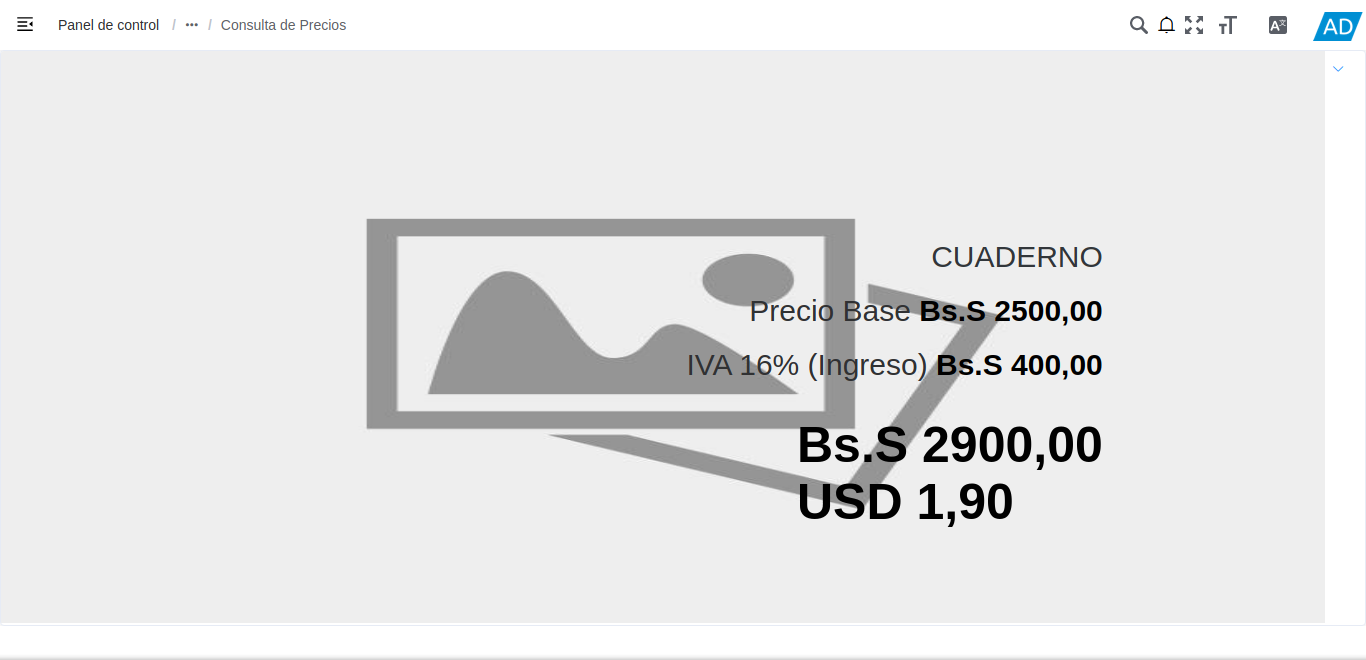
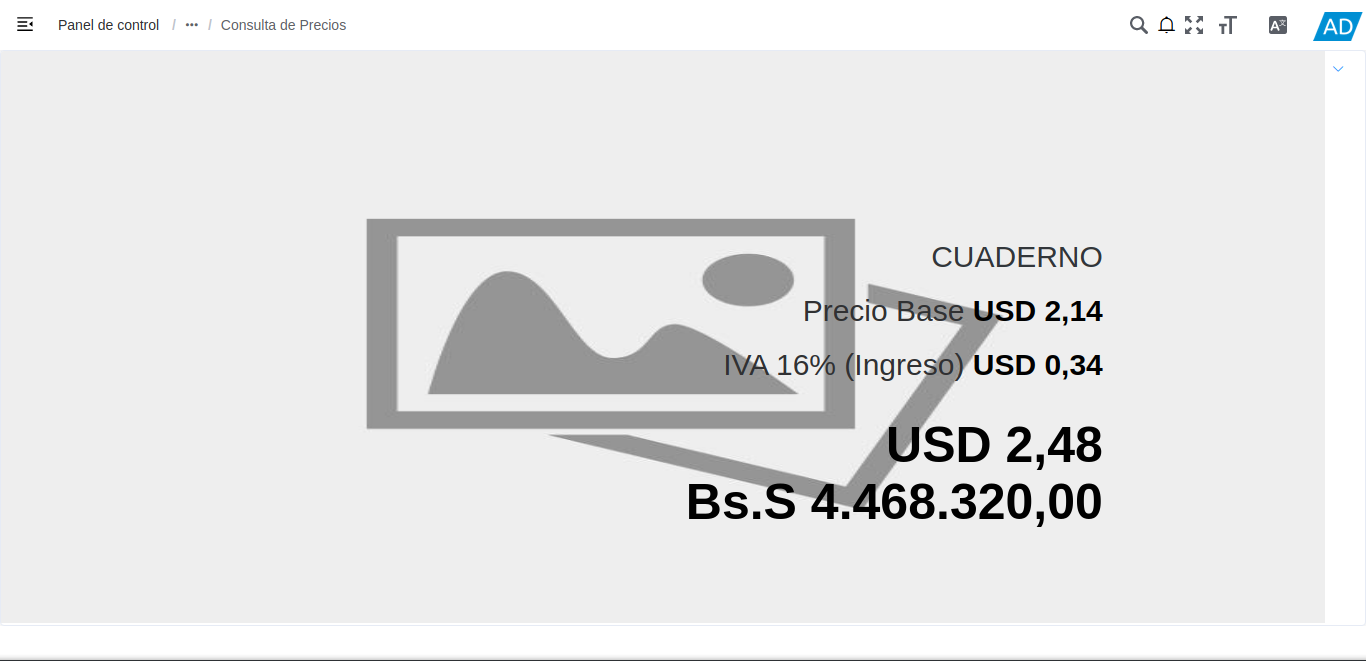
modificaciones del visor y consulta de productos

diff --git a/src/adempiere/material-management/consultation-of-product-prices.rst b/src/adempiere/material-management/consultation-of-product-prices.rst
@@ -8,11 +8,11 @@
 **Consulta de Precios de Productos**
 ====================================
 
+ADempiere permite que sea realizada una búsqueda de precios de productos a través del código de barra del mismo, en la ventana "**Consulta de Precios**". Para ello, fue realizada la creación y configuración del usuario "**visor**", con la finalidad de que el mismo pueda realizar una consulta rápida de los productos con sus respectivos precios. Este usuario se encuentra configurado con moneda "**USD**", para reflejar el precio del producto en dólares y su monto convertido en bolívares, según la tasa de cambio del día. 
+
 El presente material elaborado por `ERPyA`_, pretende ofrecerle una explicación eficiente a nuestros clientes del procedimiento a seguir para consultar los precios de los productos registrados en ADempiere.
 
-ADempiere permite que sea realizada una búsqueda de precios de productos a través del código de barra del mismo, en la ventana "**Consulta de Precios**". A continuación se explica de manera detallada el procedimiento a seguir para el mismo.
-
-#. Ubique en el menú de ADempiere, la carpeta "**Gestión de Ventas**", el formulario "**Consulta de Precios**".
+#. Ubique en el menú de ADempiere, el formulario "**Consulta de Precios**".
 
     |menú de consulta de producto|
 
@@ -24,12 +24,12 @@ ADempiere permite que sea realizada una búsqueda de precios de productos a trav
 
     Imagen 2. Ventana del Formulario Consulta de Precios
 
-#. Haga clic sobre la imagen de la ventana y posteriormente ubique el código de barra del producto en el lector de código, para que el mismo pueda reflejar la información del producto.
+#. Ubique el código de barra del producto en el lector de código, para que el mismo pueda consultar y reflejar la información del producto.
 
     |consulta de precios|
 
-    Imagen 4. Ventana Consulta de Precios
+    Imagen 3. Ventana Consulta de Precios
 
     .. note::
 
-        Este formulario permite visualizar el nombre del producto, su precio sin impuesto y el total del impuesto del mismo, Adicional a ello, muestra el monto total del producto en la moneda base y su monto convertido según la lista de precios disponible para la organización.
+        Este formulario permite visualizar el nombre del producto, su precio sin impuesto en el campo "**Precio Base**" y el total del impuesto del mismo en el campo "**IVA 16% (Ingreso)**", Adicional a ello, muestra el monto total del producto en la moneda base y su monto convertido según la tasa de cambio disponible para la organización.

diff --git a/src/adempiere/material-management/product-inquiry.rst b/src/adempiere/material-management/product-inquiry.rst
@@ -8,6 +8,10 @@
 **Información de Productos**
 ============================
 
+ADempiere permite realizar una búsqueda avanzada de productos a través del código o nombre del mismo, en la ventana de consulta "**Información de Productos**". Para ello, fue realizada la creación y configuración del usuario "**consulta**", con la finalidad de que el mismo pueda realizar una consulta detallada de los productos con sus respectivos precios y cantidades en existencia.
+
+El presente material elaborado por `ERPyA`_, pretende ofrecerle una explicación eficiente a nuestros clientes del procedimiento a seguir para consultar la información de los productos registrados en ADempiere.
+
 #. Ubique en el menú de ADempiere, la ventana de consulta "**Información de Productos**".
 
     |menú de información de productos|
